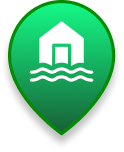
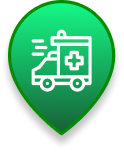
UPDATE: FEB 26: MAP MARKERS AND IDS SHIT

Changed region(s): [[0.2419, 0.1316, 0.75, 0.6053]]

diff --git a/src/pages/Dashboard.jsx b/src/pages/Dashboard.jsx
@@ -9,6 +9,10 @@ import fireMarker from "../assets/markers/fireMarker.png";
 import earthquakeMarker from "../assets/markers/earthquakeMarker.png";
 import typhoonMarker from "../assets/markers/typhoonMarker.png";
 import medicalMarker from "../assets/markers/medicalMarker.png";
+import landslideMarker from "../assets/markers/landslideMarker.png";
+import tsunamiMarker from "../assets/markers/tsunamiMarker.png";
+import policeMarker from "../assets/markers/policeMarker.png";
+import volcanMarker from "../assets/markers/volcanMarker.png";
 import rescuerMarker from "../assets/markers/rescuerMarker.png";
 
 const DEFAULT_CENTER = { lat: 14.649, lng: 120.970 }; // Caloocan City South
@@ -85,6 +89,10 @@ const Dashboard = () => {
       if (t.includes("earthquake")) return earthquakeMarker;
       if (t.includes("typhoon")) return typhoonMarker;
       if (t.includes("flood") || t.includes("medical")) return medicalMarker;
+      if (t.includes("landslide")) return landslideMarker;
+      if (t.includes("tsunami")) return tsunamiMarker;
+      if (t.includes("police")) return policeMarker;
+      if (t.includes("volcano") || t.includes("volcan")) return volcanMarker;
       return null;
     };
 
@@ -94,6 +102,10 @@ const Dashboard = () => {
       if (t.includes("flood")) return "#22c55e";
       if (t.includes("typhoon")) return "#2563eb";
       if (t.includes("earthquake")) return "#a16207";
+      if (t.includes("landslide")) return "#92400e";
+      if (t.includes("tsunami")) return "#0ea5e9";
+      if (t.includes("police")) return "#4338ca";
+      if (t.includes("volcano") || t.includes("volcan")) return "#b91c1c";
       return "#0ea5e9";
     };
 

diff --git a/src/pages/Incidents.jsx b/src/pages/Incidents.jsx
@@ -429,6 +429,10 @@ export default function Incidents() {
     if (normalizedType.includes("earthquake")) return "EQ";
     if (normalizedType.includes("medical")) return "MD";
     if (normalizedType.includes("typhoon")) return "TYP";
+    if (normalizedType.includes("tsunami")) return "TSNM";
+    if (normalizedType.includes("landslide")) return "LNDS";
+    if (normalizedType.includes("police")) return "PINC";
+    if (normalizedType.includes("volcano") || normalizedType.includes("volcan")) return "VOLC";
 
     return "INC";
   };
@@ -738,8 +742,9 @@ export default function Incidents() {
                         type="button"
                         className="inc-btn inc-btn-success"
                         onClick={() => handleStatusChange(r.id, "active")}
+                        disabled={r.status === "active"}
                       >
-                        Post
+                        {r.status === "active" ? "Posted" : "Post"}
                       </button>
 
                       <button

diff --git a/src/pages/ResolvedCases.jsx b/src/pages/ResolvedCases.jsx
@@ -105,6 +105,10 @@ export default function ResolvedCases() {
     if (normalizedType.includes("earthquake")) return "EQ";
     if (normalizedType.includes("medical")) return "MD";
     if (normalizedType.includes("typhoon")) return "TYP";
+    if (normalizedType.includes("tsunami")) return "TSNM";
+    if (normalizedType.includes("landslide")) return "LNDS";
+    if (normalizedType.includes("police")) return "PINC";
+    if (normalizedType.includes("volcano") || normalizedType.includes("volcan")) return "VOLC";
 
     return "INC";
   };